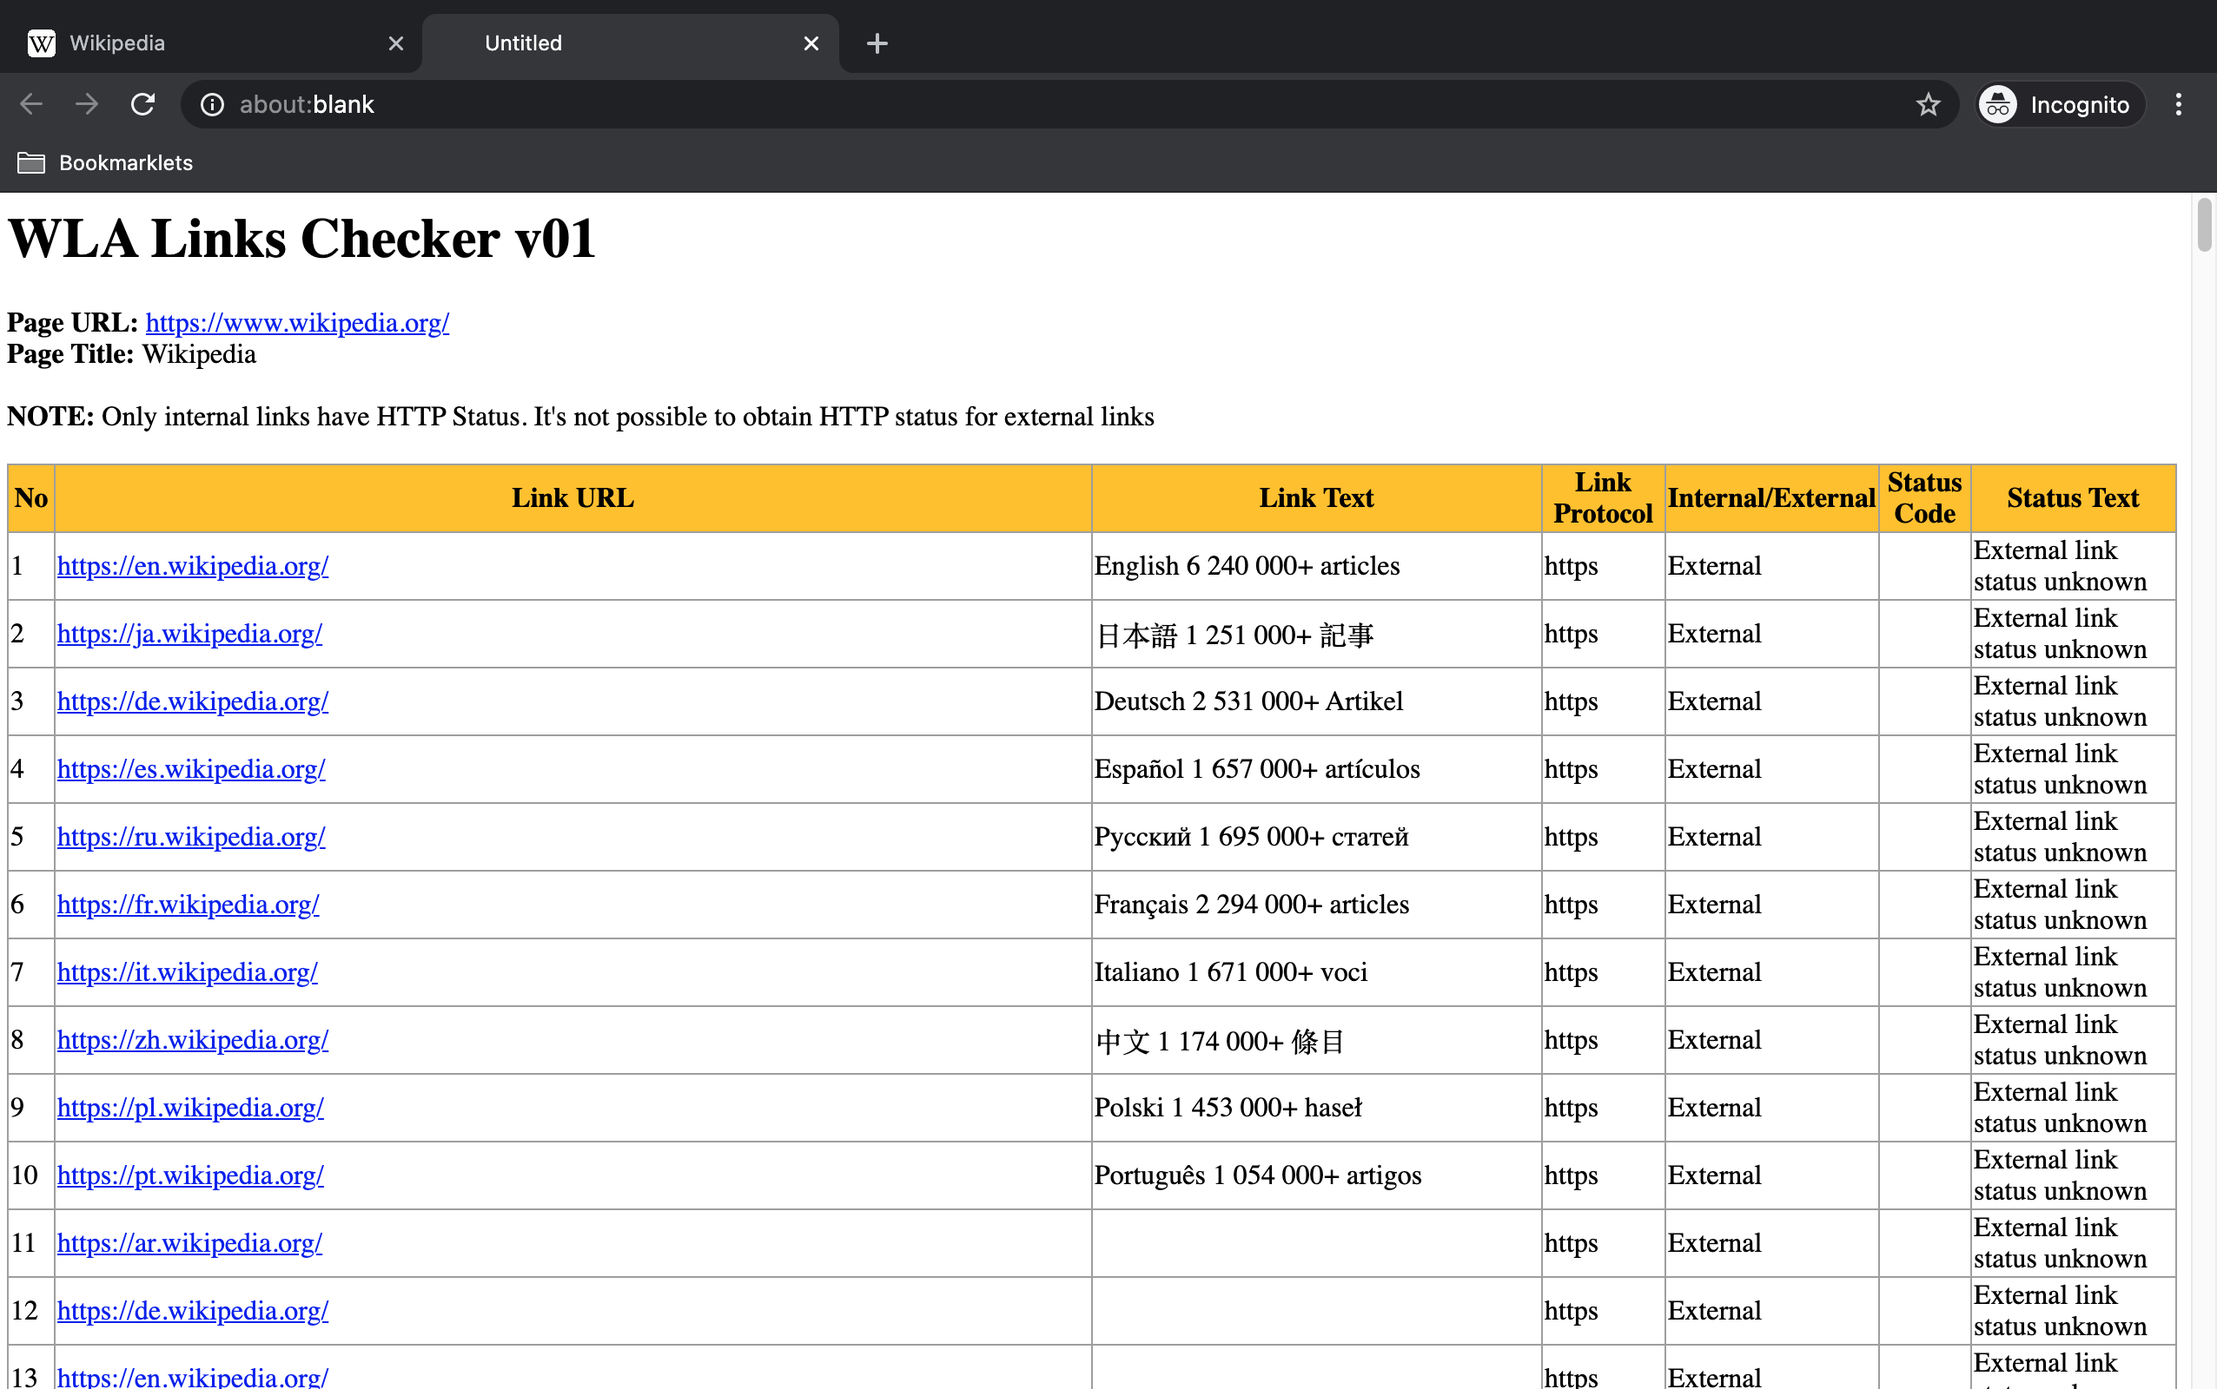
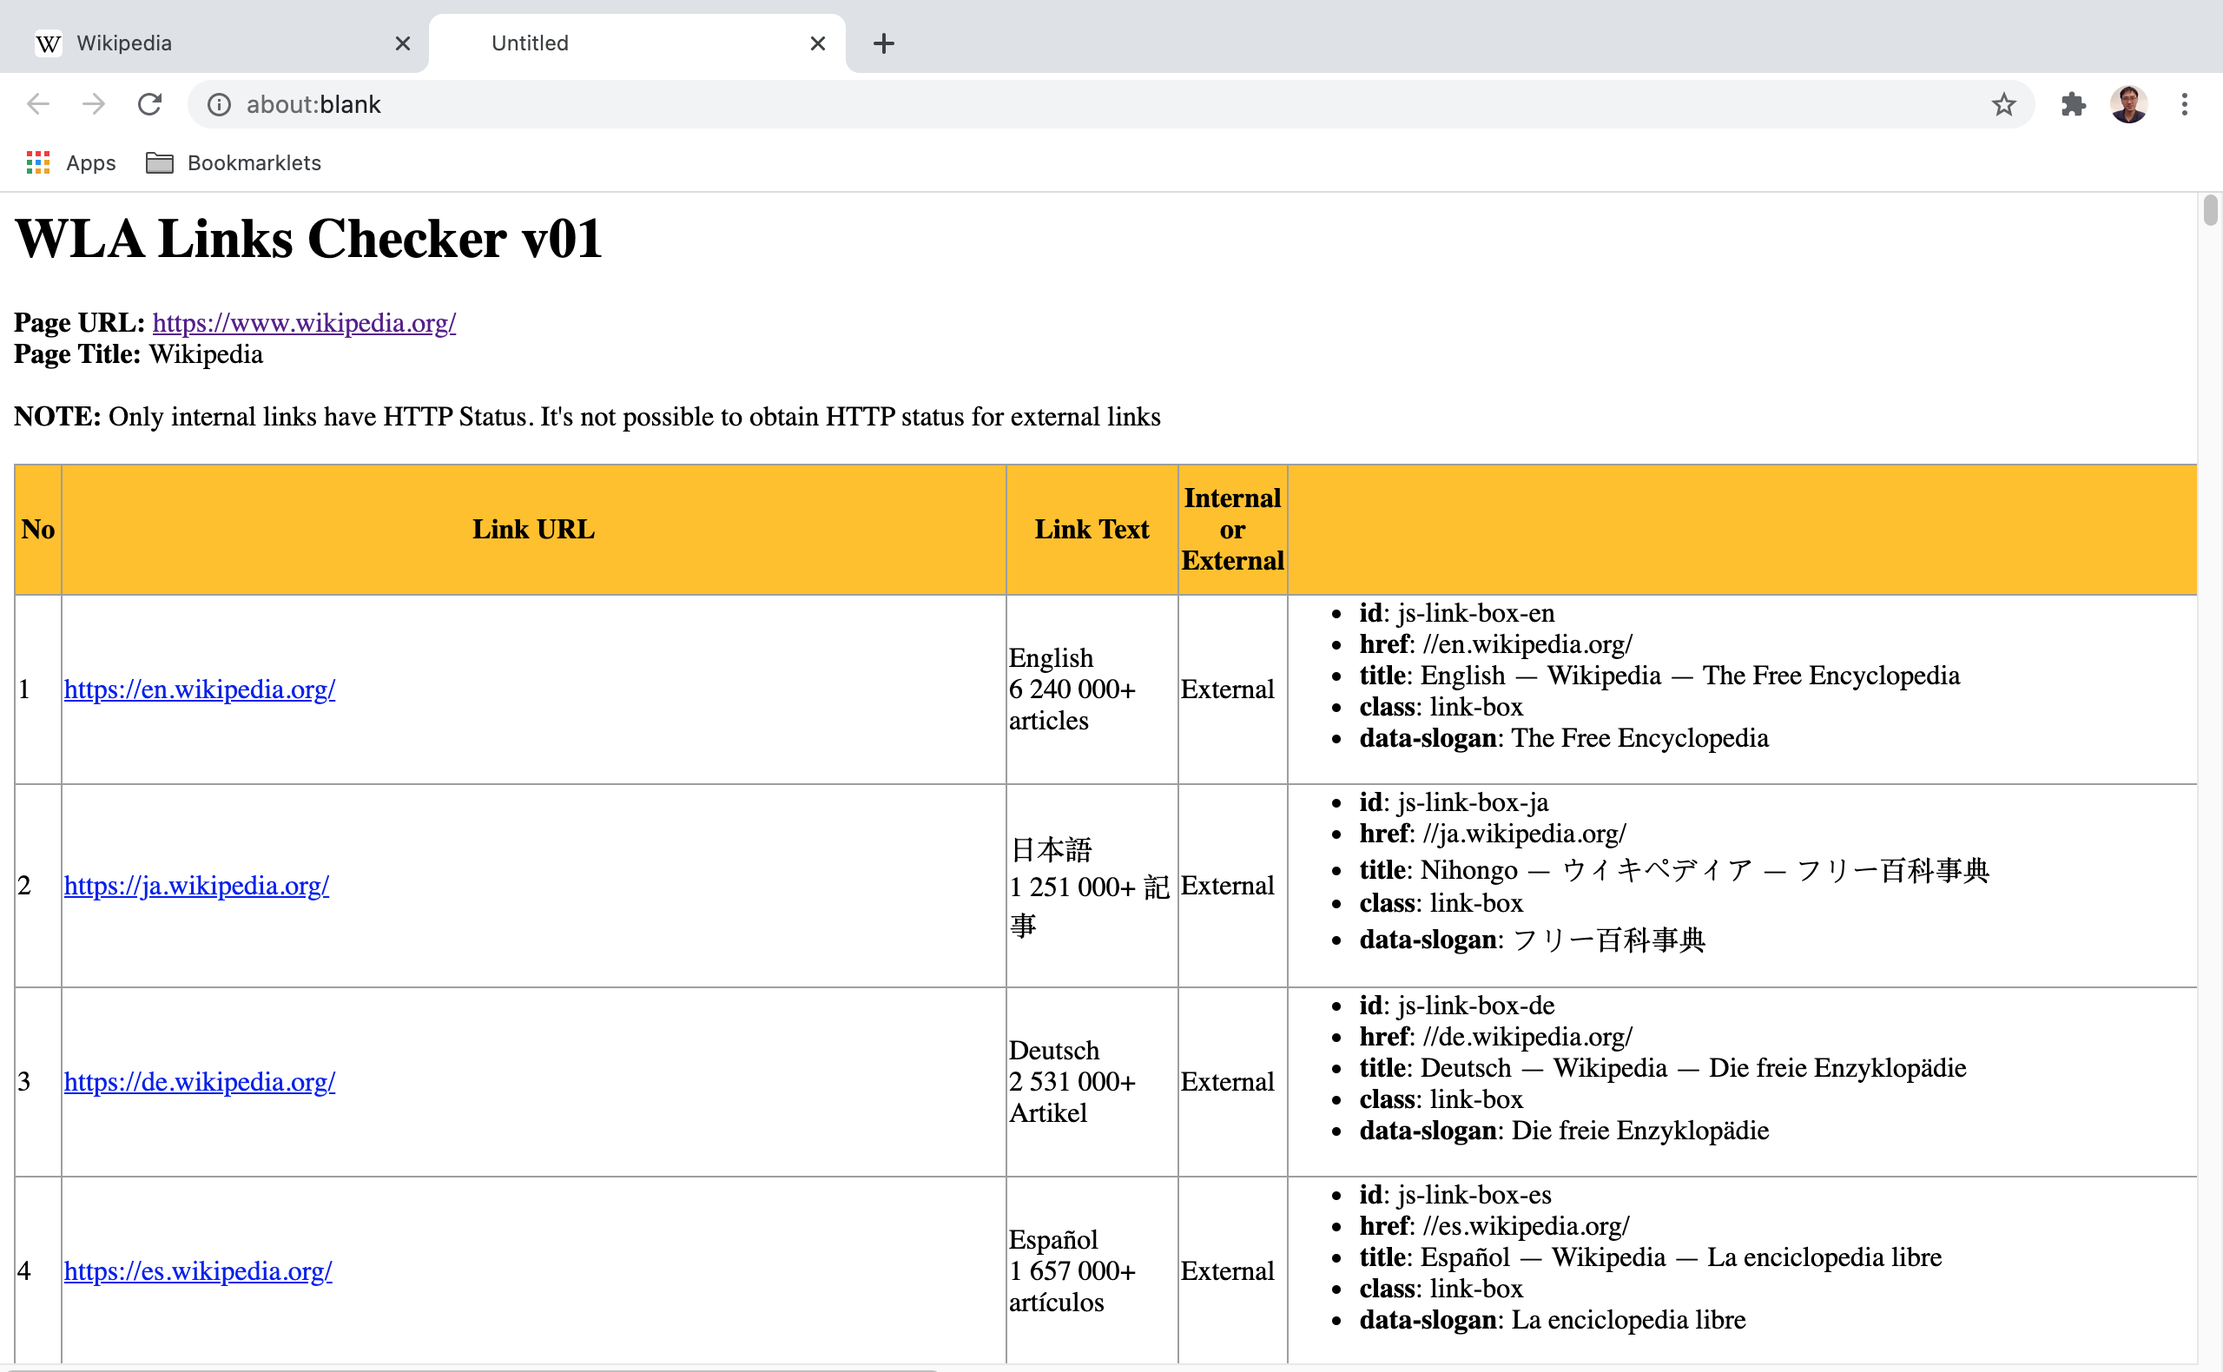
update

Changed region(s): [[0.0, 0.2171, 0.9906, 1.0], [0.0, 0.0, 1.0, 0.1861]]

diff --git a/Source/Getlinks.min.js b/Source/Getlinks.min.js
@@ -1,1 +1,1 @@
-function returnHTTPStatus(url,strInternalExternal){let xmlHttp=new XMLHttpRequest,statusCode="",statusText="";if(xmlHttp.open("HEAD",url,!1),"Internal"==strInternalExternal){try{xmlHttp.send()}catch(e){console.log("Error: "+e)}xmlHttp.onload=function(){statusText=xmlHttp.statusText,statusCode=xmlHttp.status},xmlHttp.onload()}else statusText="External link status unknown",statusCode="";return[statusCode,statusText]}function checkInternalExternalLink(linkHost,pageHost){let strOutput;return strOutput=linkHost==pageHost?"Internal":"External",strOutput}function isValidHttpUrl(strTest){let url;try{url=new URL(strTest)}catch(_){return!1}return"http:"===url.protocol||"https:"===url.protocol}function formatHTMLcellvalues(strCellinput){let strOutput;return strOutput=isValidHttpUrl(strCellinput)?"<A HREF='"+strCellinput+"' target='_blank'>"+decodeURIComponent(strCellinput)+"</A>":null==strCellinput||0==String(strCellinput).trim().length?"":String(strCellinput).trim(),strOutput}function setTableStyle(){let strOutput="<STYLE>";return strOutput+="table,th,td { border:1px solid #9E9E9E; border-collapse: collapse  }",strOutput+="th { background: #FFC107; }",strOutput+="</STYLE>",strOutput}function formatPageHeaders(strHeader,strNotes=""){let strOutput="<H1>"+strHeader+"</H1>";return strOutput+="<STRONG>Page URL: </STRONG>",strOutput+="<A href='"+location.href+"' target='_blank'>"+location.href+"</A><BR>",strOutput+="<STRONG>Page Title: </STRONG>",strOutput+=document.title+"<BR><BR>",strOutput+=""!=strNotes?"<STRONG>NOTE: </STRONG>"+strNotes+"<BR><BR>":"",strOutput}function formatHTMLTableHeaders(){let strOutput="<TABLE>";strOutput+="<TR>";for(let i=0;i<arguments.length;i++)strOutput+="<TH>"+arguments[i]+"</TH>";return strOutput+="</TR>",strOutput}function formatHTMLTableRows(){let strOutput="<TR>";for(let i=0;i<arguments.length;i++)strOutput+="<TD>"+formatHTMLcellvalues(arguments[i])+"</TD>";return strOutput+="</TR>",strOutput}!function(){alert("WARNING: the process might take minutes. Please click ok button and wait for tab with link information to open!");let pageH1="WLA Links Checker v01",pageNotes="Only internal links have HTTP Status. It's not possible to obtain HTTP status for external links",objCollection=document.links,pageHost=location.host,strHTMLlines="";strHTMLlines+=setTableStyle(),strHTMLlines+=formatPageHeaders(pageH1,pageNotes),strHTMLlines+=formatHTMLTableHeaders("No","Link URL","Link Text","Link Protocol","Internal/External","Status Code","Status Text");for(let i=0;i<objCollection.length;i++){let objItem=objCollection[i],objInternalExternalLink=checkInternalExternalLink(objItem.host,pageHost);strHTMLlines+=formatHTMLTableRows(i+1,objItem.href,objItem.innerText,objItem.protocol.replace(":",""),objInternalExternalLink,returnHTTPStatus(objItem.href,objInternalExternalLink)[0],returnHTTPStatus(objItem.href,objInternalExternalLink)[1])}strHTMLlines+="</TABLE>",strHTMLlines+="<BR><BR><DIV style='text-align: center;'><CITE>Coded by Washington Alto</CITE></DIV>";let myWin=window.open();myWin.document.writeln(strHTMLlines),myWin.document.close()}();
+function listAttributes(arr){let strOutput="<DIV>";strOutput+="<UL>";for(let i=0;i<arr.length;i++)strOutput+="<LI><SPAN class='propertyname'>"+arr[i].name+"</SPAN>: "+arr[i].value+"</LI>";return strOutput+="</UL></DIV>",strOutput}function returnHTTPStatus(url,strInternalExternal){let xmlHttp=new XMLHttpRequest,statusCode="",statusText="";if(xmlHttp.open("HEAD",url,!1),"Internal"==strInternalExternal){try{xmlHttp.send()}catch(e){console.log("Error: "+e)}xmlHttp.onload=function(){statusText=xmlHttp.statusText,statusCode=xmlHttp.status},xmlHttp.onload()}else statusText="External link status unknown",statusCode="0";return statusCode+": "+statusText}function checkInternalExternalLink(linkHost,pageHost){let strOutput;return strOutput=linkHost==pageHost?"Internal":"External",strOutput}function isValidHttpUrl(strTest){let url;try{url=new URL(strTest)}catch(_){return!1}return"http:"===url.protocol||"https:"===url.protocol}function formatHTMLcellvalues(strCellinput){let strOutput;return strOutput=isValidHttpUrl(strCellinput)?"<A HREF='"+strCellinput+"' target='_blank'>"+decodeURIComponent(strCellinput)+"</A>":"object"==typeof strCellinput?listAttributes(strCellinput):null==strCellinput||0==String(strCellinput).trim().length?"":String(strCellinput).trim(),strOutput}function setTableStyle(){let strOutput="<STYLE>";return strOutput+="table,th,td { border:1px solid #9E9E9E; border-collapse: collapse  }",strOutput+="th { background: #FFC107; }",strOutput+=".propertyname { font-weight:bold; font-color:blue; }",strOutput+="</STYLE>",strOutput}function formatPageHeaders(strHeader,strNotes=""){let strOutput="<H1>"+strHeader+"</H1>";return strOutput+="<STRONG>Page URL: </STRONG>",strOutput+="<A href='"+location.href+"' target='_blank'>"+location.href+"</A><BR>",strOutput+="<STRONG>Page Title: </STRONG>",strOutput+=document.title+"<BR><BR>",strOutput+=""!=strNotes?"<STRONG>NOTE: </STRONG>"+strNotes+"<BR><BR>":"",strOutput}function formatHTMLTableHeaders(){let strOutput="<TABLE>";strOutput+="<TR>";for(let i=0;i<arguments.length;i++)strOutput+="<TH>"+arguments[i]+"</TH>";return strOutput+="</TR>",strOutput}function formatHTMLTableRows(){let strOutput="<TR>";for(let i=0;i<arguments.length;i++)strOutput+="<TD>"+formatHTMLcellvalues(arguments[i])+"</TD>";return strOutput+="</TR>",strOutput}!function(){alert("WARNING: the process might take minutes. Please click ok button and wait for tab with link information to open!");let pageH1="WLA Links Checker v01",pageNotes="Only internal links have HTTP Status. It's not possible to obtain HTTP status for external links",objCollection=document.links,pageHost=location.host,strHTMLlines="";strHTMLlines+=setTableStyle(),strHTMLlines+=formatPageHeaders(pageH1,pageNotes),strHTMLlines+=formatHTMLTableHeaders("No","Link URL","Link Text","Internal or External","Link Attributes","Status Code & Status Text");for(let i=0;i<objCollection.length;i++){let objItem=objCollection[i],objInternalExternalLink=checkInternalExternalLink(objItem.host,pageHost);strHTMLlines+=formatHTMLTableRows(i+1,objItem.href,objItem.innerText,objInternalExternalLink,objItem.attributes,returnHTTPStatus(objItem.href,objInternalExternalLink))}strHTMLlines+="</TABLE>",strHTMLlines+="<BR><BR><DIV style='text-align: center;'><CITE>Coded by Washington Alto</CITE></DIV>";let myWin=window.open();myWin.document.writeln(strHTMLlines),myWin.document.close()}();

diff --git a/Source/Getlinks.js b/Source/Getlinks.js
@@ -1,8 +1,26 @@
 /*
+function listAttributes(arr)
+	Lists down attributes for the attributes property
+*/
+function listAttributes(arr) {
+  let strOutput = "<DIV>";
+  strOutput += "<UL>";
+  for (let i = 0; i < arr.length; i++) {
+    strOutput +=
+      "<LI><SPAN class='propertyname'>" +
+      arr[i].name +
+      "</SPAN>: " +
+      arr[i].value +
+      "</LI>";
+  }
+  strOutput += "</UL></DIV>";
+  return strOutput;
+}
+
+/*
 function returnHTTPStatus(url,strInternalExternal)
 	Returns HTTP Status and Status text only for "Internal" links only
-	Note that returnHTTPStatus(url,strInternalExternal)[0] returns status code
-	Note that returnHTTPStatus(url,strInternalExternal)[1] returns status text
+	Note that returnHTTPStatus(url,strInternalExternal) returns <status code>: <status text>
 */
 function returnHTTPStatus(url, strInternalExternal) {
   let xmlHttp = new XMLHttpRequest();
@@ -22,9 +40,9 @@ function returnHTTPStatus(url, strInternalExternal) {
     xmlHttp.onload();
   } else {
     statusText = "External link status unknown";
-    statusCode = "";
+    statusCode = "0";
   }
-  return [statusCode, statusText];
+  return statusCode + ': ' + statusText;
 }
 
 /*
@@ -71,6 +89,8 @@ function formatHTMLcellvalues(strCellinput) {
       "' target='_blank'>" +
       decodeURIComponent(strCellinput) +
       "</A>";
+  } else if (typeof strCellinput === "object") {
+    strOutput = listAttributes(strCellinput);
   } else {
     strOutput =
       strCellinput == null || String(strCellinput).trim().length == 0
@@ -89,6 +109,7 @@ function setTableStyle() {
   strOutput +=
     "table,th,td { border:1px solid #9E9E9E; border-collapse: collapse  }";
   strOutput += "th { background: #FFC107; }";
+  strOutput += ".propertyname { font-weight:bold; font-color:blue; }";
   strOutput += "</STYLE>";
   return strOutput;
 }
@@ -162,10 +183,9 @@ function formatHTMLTableRows() {
     "No",
     "Link URL",
     "Link Text",
-    "Link Protocol",
-    "Internal/External",
-    "Status Code",
-    "Status Text"
+    "Internal or External",
+    "Link Attributes",
+    "Status Code & Status Text"
   );
   for (let i = 0; i < objCollection.length; i++) {
     let objItem = objCollection[i]; // get the object HTML collection item
@@ -177,10 +197,9 @@ function formatHTMLTableRows() {
       i + 1,
       objItem["href"],
       objItem["innerText"],
-      objItem["protocol"].replace(":", ""),
       objInternalExternalLink,
-      returnHTTPStatus(objItem["href"], objInternalExternalLink)[0],
-      returnHTTPStatus(objItem["href"], objInternalExternalLink)[1]
+      objItem["attributes"],
+      returnHTTPStatus(objItem["href"], objInternalExternalLink)
     );
   }
   strHTMLlines += "</TABLE>";

diff --git a/Source/Getimages.js b/Source/Getimages.js
@@ -1,3 +1,7 @@
+/*
+function listAttributes(arr)
+	Lists down attributes for the attributes property
+*/
 function listAttributes(arr) {
   let strOutput = "<DIV>";
   strOutput += "<UL>";

diff --git a/README.md b/README.md
@@ -31,7 +31,7 @@ https://www.wikipedia.org
   * Code  
 
   ```
-  javascript:function returnHTTPStatus(url,strInternalExternal){let xmlHttp=new XMLHttpRequest,statusCode="",statusText="";if(xmlHttp.open("HEAD",url,!1),"Internal"==strInternalExternal){try{xmlHttp.send()}catch(e){console.log("Error: "+e)}xmlHttp.onload=function(){statusText=xmlHttp.statusText,statusCode=xmlHttp.status},xmlHttp.onload()}else statusText="External link status unknown",statusCode="";return[statusCode,statusText]}function checkInternalExternalLink(linkHost,pageHost){let strOutput;return strOutput=linkHost==pageHost?"Internal":"External",strOutput}function isValidHttpUrl(strTest){let url;try{url=new URL(strTest)}catch(_){return!1}return"http:"===url.protocol||"https:"===url.protocol}function formatHTMLcellvalues(strCellinput){let strOutput;return strOutput=isValidHttpUrl(strCellinput)?"<A HREF='"+strCellinput+"' target='_blank'>"+decodeURIComponent(strCellinput)+"</A>":null==strCellinput||0==String(strCellinput).trim().length?"":String(strCellinput).trim(),strOutput}function setTableStyle(){let strOutput="<STYLE>";return strOutput+="table,th,td { border:1px solid #9E9E9E; border-collapse: collapse  }",strOutput+="th { background: #FFC107; }",strOutput+="</STYLE>",strOutput}function formatPageHeaders(strHeader,strNotes=""){let strOutput="<H1>"+strHeader+"</H1>";return strOutput+="<STRONG>Page URL: </STRONG>",strOutput+="<A href='"+location.href+"' target='_blank'>"+location.href+"</A><BR>",strOutput+="<STRONG>Page Title: </STRONG>",strOutput+=document.title+"<BR><BR>",strOutput+=""!=strNotes?"<STRONG>NOTE: </STRONG>"+strNotes+"<BR><BR>":"",strOutput}function formatHTMLTableHeaders(){let strOutput="<TABLE>";strOutput+="<TR>";for(let i=0;i<arguments.length;i++)strOutput+="<TH>"+arguments[i]+"</TH>";return strOutput+="</TR>",strOutput}function formatHTMLTableRows(){let strOutput="<TR>";for(let i=0;i<arguments.length;i++)strOutput+="<TD>"+formatHTMLcellvalues(arguments[i])+"</TD>";return strOutput+="</TR>",strOutput}!function(){alert("WARNING: the process might take minutes. Please click ok button and wait for tab with link information to open!");let pageH1="WLA Links Checker v01",pageNotes="Only internal links have HTTP Status. It's not possible to obtain HTTP status for external links",objCollection=document.links,pageHost=location.host,strHTMLlines="";strHTMLlines+=setTableStyle(),strHTMLlines+=formatPageHeaders(pageH1,pageNotes),strHTMLlines+=formatHTMLTableHeaders("No","Link URL","Link Text","Link Protocol","Internal/External","Status Code","Status Text");for(let i=0;i<objCollection.length;i++){let objItem=objCollection[i],objInternalExternalLink=checkInternalExternalLink(objItem.host,pageHost);strHTMLlines+=formatHTMLTableRows(i+1,objItem.href,objItem.innerText,objItem.protocol.replace(":",""),objInternalExternalLink,returnHTTPStatus(objItem.href,objInternalExternalLink)[0],returnHTTPStatus(objItem.href,objInternalExternalLink)[1])}strHTMLlines+="</TABLE>",strHTMLlines+="<BR><BR><DIV style='text-align: center;'><CITE>Coded by Washington Alto</CITE></DIV>";let myWin=window.open();myWin.document.writeln(strHTMLlines),myWin.document.close()}();
+  javascript:function listAttributes(arr){let strOutput="<DIV>";strOutput+="<UL>";for(let i=0;i<arr.length;i++)strOutput+="<LI><SPAN class='propertyname'>"+arr[i].name+"</SPAN>: "+arr[i].value+"</LI>";return strOutput+="</UL></DIV>",strOutput}function returnHTTPStatus(url,strInternalExternal){let xmlHttp=new XMLHttpRequest,statusCode="",statusText="";if(xmlHttp.open("HEAD",url,!1),"Internal"==strInternalExternal){try{xmlHttp.send()}catch(e){console.log("Error: "+e)}xmlHttp.onload=function(){statusText=xmlHttp.statusText,statusCode=xmlHttp.status},xmlHttp.onload()}else statusText="External link status unknown",statusCode="0";return statusCode+": "+statusText}function checkInternalExternalLink(linkHost,pageHost){let strOutput;return strOutput=linkHost==pageHost?"Internal":"External",strOutput}function isValidHttpUrl(strTest){let url;try{url=new URL(strTest)}catch(_){return!1}return"http:"===url.protocol||"https:"===url.protocol}function formatHTMLcellvalues(strCellinput){let strOutput;return strOutput=isValidHttpUrl(strCellinput)?"<A HREF='"+strCellinput+"' target='_blank'>"+decodeURIComponent(strCellinput)+"</A>":"object"==typeof strCellinput?listAttributes(strCellinput):null==strCellinput||0==String(strCellinput).trim().length?"":String(strCellinput).trim(),strOutput}function setTableStyle(){let strOutput="<STYLE>";return strOutput+="table,th,td { border:1px solid #9E9E9E; border-collapse: collapse  }",strOutput+="th { background: #FFC107; }",strOutput+=".propertyname { font-weight:bold; font-color:blue; }",strOutput+="</STYLE>",strOutput}function formatPageHeaders(strHeader,strNotes=""){let strOutput="<H1>"+strHeader+"</H1>";return strOutput+="<STRONG>Page URL: </STRONG>",strOutput+="<A href='"+location.href+"' target='_blank'>"+location.href+"</A><BR>",strOutput+="<STRONG>Page Title: </STRONG>",strOutput+=document.title+"<BR><BR>",strOutput+=""!=strNotes?"<STRONG>NOTE: </STRONG>"+strNotes+"<BR><BR>":"",strOutput}function formatHTMLTableHeaders(){let strOutput="<TABLE>";strOutput+="<TR>";for(let i=0;i<arguments.length;i++)strOutput+="<TH>"+arguments[i]+"</TH>";return strOutput+="</TR>",strOutput}function formatHTMLTableRows(){let strOutput="<TR>";for(let i=0;i<arguments.length;i++)strOutput+="<TD>"+formatHTMLcellvalues(arguments[i])+"</TD>";return strOutput+="</TR>",strOutput}!function(){alert("WARNING: the process might take minutes. Please click ok button and wait for tab with link information to open!");let pageH1="WLA Links Checker v01",pageNotes="Only internal links have HTTP Status. It's not possible to obtain HTTP status for external links",objCollection=document.links,pageHost=location.host,strHTMLlines="";strHTMLlines+=setTableStyle(),strHTMLlines+=formatPageHeaders(pageH1,pageNotes),strHTMLlines+=formatHTMLTableHeaders("No","Link URL","Link Text","Internal or External","Link Attributes","Status Code & Status Text");for(let i=0;i<objCollection.length;i++){let objItem=objCollection[i],objInternalExternalLink=checkInternalExternalLink(objItem.host,pageHost);strHTMLlines+=formatHTMLTableRows(i+1,objItem.href,objItem.innerText,objInternalExternalLink,objItem.attributes,returnHTTPStatus(objItem.href,objInternalExternalLink))}strHTMLlines+="</TABLE>",strHTMLlines+="<BR><BR><DIV style='text-align: center;'><CITE>Coded by Washington Alto</CITE></DIV>";let myWin=window.open();myWin.document.writeln(strHTMLlines),myWin.document.close()}();
   ```
   * Screenshot  
 
